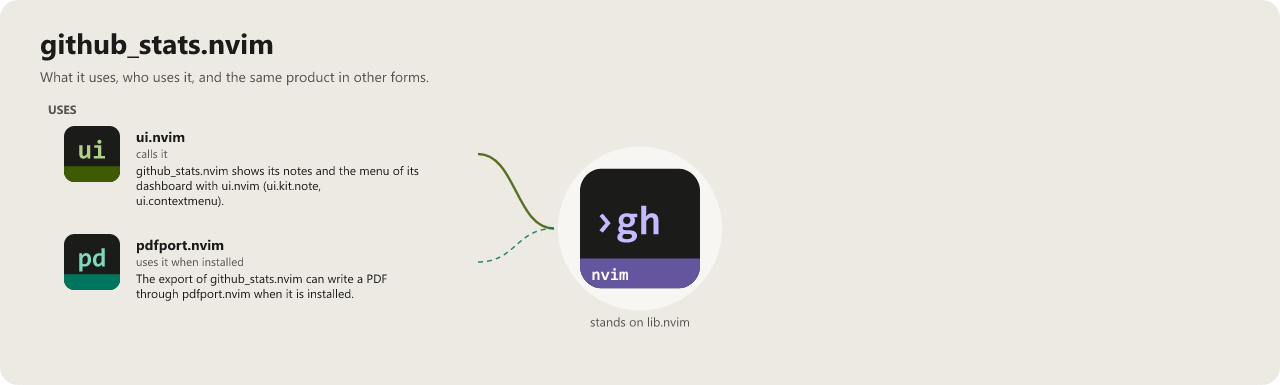
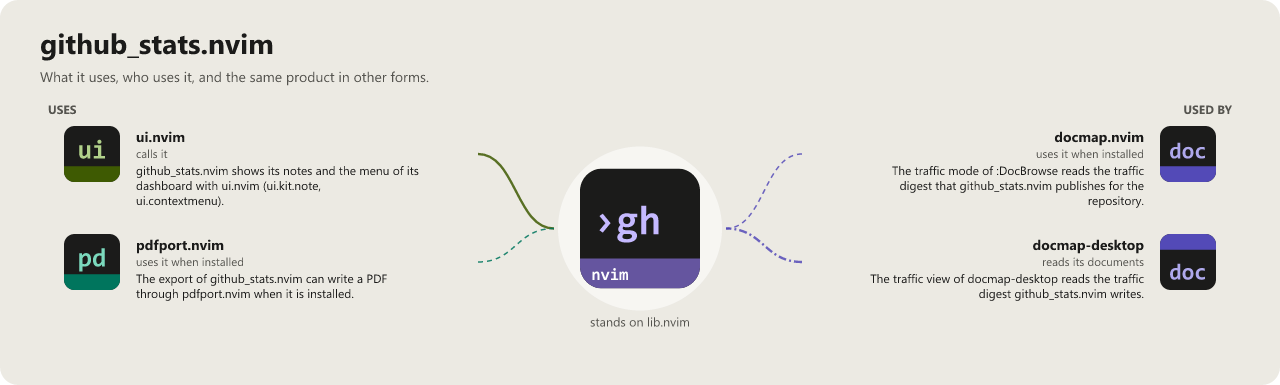
docs(graphs): connections through optional loaders, programs, HTTP and files
The connections picture and the README block now also show what the require rule did not see: optional loads through soft_require, lib.nvim.require.safe and package.loaded, and connections over programs, HTTP and files, each with a line of code as evidence. Written by the app-icons tool of the workshop (graphs.mjs install-repos).

diff --git a/README.md b/README.md
@@ -106,4 +106,9 @@ github_stats.nvim is released under the [MIT License](https://opensource.org/lic
 - [pdfport.nvim](https://github.com/WKDSteve/pdfport.nvim): The export of github_stats.nvim can write a PDF through pdfport.nvim when it is installed. ([picture](assets/graphs/pair/github_stats.nvim--pdfport.nvim.png))
 - [ui.nvim](https://github.com/WKDSteve/ui.nvim): github_stats.nvim shows its notes and the menu of its dashboard with ui.nvim (`ui.kit.note`, `ui.contextmenu`). ([picture](assets/graphs/pair/github_stats.nvim--ui.nvim.png))
 - [lib.nvim](https://github.com/WKDSteve/lib.nvim): the shared base of the plugins.
+
+**Used by**
+
+- [docmap-desktop](https://github.com/WKDSteve/docmap-desktop): The traffic view of docmap-desktop reads the traffic digest github_stats.nvim writes. ([picture](assets/graphs/pair/docmap-desktop--github_stats.nvim.png))
+- [docmap.nvim](https://github.com/WKDSteve/docmap.nvim): The `traffic` mode of `:DocBrowse` reads the traffic digest that github_stats.nvim publishes for the repository. ([picture](assets/graphs/pair/docmap.nvim--github_stats.nvim.png))
 <!-- connections:end -->
